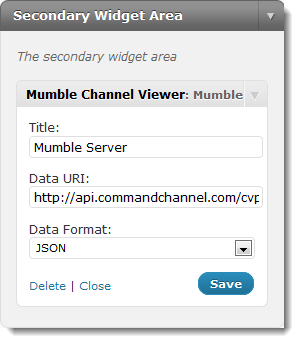
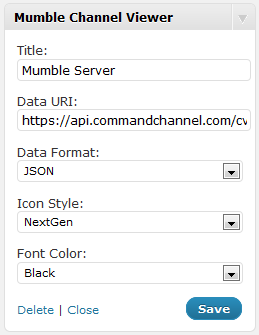
Added font and color options.
git-svn-id: https://plugins.svn.wordpress.org/mumble-channel-viewer/trunk@384664 b8457f37-d9ea-0310-8a92-e5e31aec5664

diff --git a/mumble-channel-viewer.css b/mumble-channel-viewer.css
@@ -1,10 +1,10 @@
 #mumbleViewer { height: 300px; overflow-y: scroll; border: 1px solid #c0c0c0; padding: 3px; }
 #mumbleViewer a, #mumbleViewer a:visited { color: #000; text-decoration: none; }
 #mumbleViewer a:hover { text-decoration: underline; }
-#main .widget-area #mumbleViewer ul, #mumbleViewer ul { list-style-type: none; margin: 0; padding: 0; }
-#main .widget-area #mumbleViewer ul ul, #mumbleViewer ul ul { margin: 0 0 0 7px; padding: 0 0 0 7px; }
+#mumbleViewer ul { list-style-type: none; margin: 0; padding: 0; }
+#mumbleViewer ul ul { margin: 0 0 0 7px; padding: 0 0 0 7px; }
 #mumbleViewer li { padding-top: 3px; }
-#mumbleViewer a, #mumbleViewer span { background: url('images/mumbleIcons.png') no-repeat left -32px; padding-left: 20px; display: block; height: 16px; overflow: hidden; }
+#mumbleViewer a, #mumbleViewer span { background: url('images/mumbleViewerIcons.png') no-repeat left -32px; padding-left: 20px; display: block; height: 16px; overflow: hidden; line-height: 14px; }
 #mumbleViewer span.mumbleChannelViewer-statusIcon { text-indent: -9999px; float: right; }
 #mumbleViewer span.mumbleChannelViewer-user { text-indent: 0; background-position: 0 -16px; float: none; }
 #mumbleViewer span.mumbleChannelViewer-authenticated { background-position: 0 0; }
@@ -14,3 +14,26 @@
 #mumbleViewer span.mumbleChannelViewer-selfMuted { background-position: 0 -80px; }
 #mumbleViewer span.mumbleChannelViewer-muted { background-position: 0 -112px;}
 .mumbleChannelViewer-error { background: #ffc url("images/exclamation.png") no-repeat 4px 5px; color: #000; border: 1px solid #f90; margin: 20px 10px; padding: 5px 5px 5px 25px; }
+
+/* Icon styles */
+#mumbleViewer.mumbleViewerIconsFarCry2 a, #mumbleViewer.mumbleViewerIconsFarCry2 span { background-image: url('images/mumbleViewerIconsFarCry2.png'); }
+#mumbleViewer.mumbleViewerIconsNextGen a, #mumbleViewer.mumbleViewerIconsNextGen span { background-image: url('images/mumbleViewerIconsNextGen.png'); }
+#mumbleViewer.mumbleViewerIconsSCGermania a, #mumbleViewer.mumbleViewerIconsSCGermania span { background-image: url('images/mumbleViewerIconsSCGermania.png'); }
+
+/* Font color styles */
+#mumbleViewer.mumbleViewerColorAqua a, #mumbleViewer.mumbleViewerColorAqua a:visited, #mumbleViewer.mumbleViewerColorAqua span { color: #0ff; }
+#mumbleViewer.mumbleViewerColorBlack a, #mumbleViewer.mumbleViewerColorBlack a:visited, #mumbleViewer.mumbleViewerColorBlack span { color: #000; }
+#mumbleViewer.mumbleViewerColorBlue a, #mumbleViewer.mumbleViewerColorBlue a:visited, #mumbleViewer.mumbleViewerColorBlue span { color: #00f; }
+#mumbleViewer.mumbleViewerColorFuchsia a, #mumbleViewer.mumbleViewerColorFuchsia a:visited, #mumbleViewer.mumbleViewerColorFuchsia span { color: #f0f; }
+#mumbleViewer.mumbleViewerColorGray a, #mumbleViewer.mumbleViewerColorGray a:visited, #mumbleViewer.mumbleViewerColorGray span { color: #808080; }
+#mumbleViewer.mumbleViewerColorGreen a, #mumbleViewer.mumbleViewerColorGreen a:visited, #mumbleViewer.mumbleViewerColorGreen span { color: #008000; }
+#mumbleViewer.mumbleViewerColorLime a, #mumbleViewer.mumbleViewerColorLime a:visited, #mumbleViewer.mumbleViewerColorLime span { color: #0f0; }
+#mumbleViewer.mumbleViewerColorMaroon a, #mumbleViewer.mumbleViewerColorMaroon a:visited, #mumbleViewer.mumbleViewerColorMaroon span { color: #800000; }
+#mumbleViewer.mumbleViewerColorNavy a, #mumbleViewer.mumbleViewerColorNavy a:visited, #mumbleViewer.mumbleViewerColorNavy span { color: #000080; }
+#mumbleViewer.mumbleViewerColorOlive a, #mumbleViewer.mumbleViewerColorOlive a:visited, #mumbleViewer.mumbleViewerColorOlive span { color: #808000; }
+#mumbleViewer.mumbleViewerColorPurple a, #mumbleViewer.mumbleViewerColorPurple a:visited, #mumbleViewer.mumbleViewerColorPurple span { color: #800080; }
+#mumbleViewer.mumbleViewerColorRed a, #mumbleViewer.mumbleViewerColorRed a:visited, #mumbleViewer.mumbleViewerColorRed span { color: #f00; }
+#mumbleViewer.mumbleViewerColorSilver a, #mumbleViewer.mumbleViewerColorSilver a:visited, #mumbleViewer.mumbleViewerColorSilver span { color: #c0c0c0; }
+#mumbleViewer.mumbleViewerColorTeal a, #mumbleViewer.mumbleViewerColorTeal a:visited, #mumbleViewer.mumbleViewerColorTeal span { color: #008080; }
+#mumbleViewer.mumbleViewerColorWhite a, #mumbleViewer.mumbleViewerColorWhite a:visited, #mumbleViewer.mumbleViewerColorWhite span { color: #fff; }
+#mumbleViewer.mumbleViewerColorYellow a, #mumbleViewer.mumbleViewerColorYellow a:visited, #mumbleViewer.mumbleViewerColorYellow span { color: #ff0; }

diff --git a/mumble-channel-viewer.php b/mumble-channel-viewer.php
@@ -3,8 +3,8 @@
 Plugin Name: Mumble Channel Viewer
 Plugin URI: http://CommandChannel.com/Downloads/Wordpress-Mumble-Viewer.aspx
 Description: Shows you who is logged in to your Mumble server and their status.
-Version: 2.0.2
-Author: Mike Johnson
+Version: 2.1.0
+Author: Command Channel
 Author URI: http://CommandChannel.com
 License: GPLv2
 */
@@ -37,6 +37,8 @@ function mumble_channel_viewer_load_widget() {
 	wp_register_style( "mumble-channel-viewer", plugins_url( 'mumble-channel-viewer.css', __FILE__ ) );
 	add_option('mumble_channel_viewer_data_uri');
 	add_option('mumble_channel_viewer_data_format');
+	add_option('mumble_channel_viewer_icon_style');
+	add_option('mumble_channel_viewer_font_color');
 }
 
 /**
@@ -66,6 +68,10 @@ class WP_MumbleChannelViewer extends WP_Widget {
 		$title = apply_filters('widget_title', $instance['title'] );
 		$dataUri = $instance['mumble_channel_viewer_data_uri'];
 		$dataFormat = $instance['mumble_channel_viewer_data_format'];
+		$iconStyle = $instance['mumble_channel_viewer_icon_style'];
+		$fontColor = $instance['mumble_channel_viewer_font_color'];
+		
+		$cssClass = trim( $iconStyle . ' ' . $fontColor );
 		
 		/* Before widget (defined by themes). */
 		echo $before_widget;
@@ -74,7 +80,7 @@ class WP_MumbleChannelViewer extends WP_Widget {
 		if ( $title )
 			echo $before_title . $title . $after_title;
 
-		echo '<div id="mumbleViewer">';
+		echo "<div id='mumbleViewer' class='{$cssClass}'>";
 		if ( $dataUri && $dataFormat ) {
 			require_once( 'class-mumble-channel-viewer.php' );
 			echo MumbleChannelViewer::render( $dataUri, $dataFormat );
@@ -92,13 +98,15 @@ class WP_MumbleChannelViewer extends WP_Widget {
 		$instance['title'] = strip_tags( $new_instance['title'] );
 		$instance['mumble_channel_viewer_data_uri'] = strip_tags( $new_instance['mumble_channel_viewer_data_uri'] );
 		$instance['mumble_channel_viewer_data_format'] = strip_tags( $new_instance['mumble_channel_viewer_data_format'] );
+		$instance['mumble_channel_viewer_icon_style'] = strip_tags( $new_instance['mumble_channel_viewer_icon_style'] );
+		$instance['mumble_channel_viewer_font_color'] = strip_tags( $new_instance['mumble_channel_viewer_font_color'] );
 
 		return $instance;
 	}
 	
 	function form( $instance ) {
 		/* Set up some default widget settings. */
-		$defaults = array( 'title' => __('Mumble Server'), 'mumble_channel_viewer_data_uri' => '', 'mumble_channel_viewer_data_format' => 'json' );
+		$defaults = array( 'title' => __('Mumble Server'), 'mumble_channel_viewer_data_uri' => '', 'mumble_channel_viewer_data_format' => 'json', 'mumble_channel_viewer_icon_style' => 'mumbleViewerIconsDefault', 'mumble_channel_viewer_font_color' => 'mumbleViewerColorBlack' );
 		$instance = wp_parse_args( (array) $instance, $defaults );
 	?>
 		<p>
@@ -116,6 +124,38 @@ class WP_MumbleChannelViewer extends WP_Widget {
 			<select id="<?php echo $this->get_field_id( 'mumble_channel_viewer_data_format' ); ?>" name="<?php echo $this->get_field_name( 'mumble_channel_viewer_data_format' ); ?>" class="widefat">
 				<option value="json"<?php selected( $instance['mumble_channel_viewer_data_format'], 'json' ); ?>>JSON</option>
 				<option value="xml"<?php selected( $instance['mumble_channel_viewer_data_format'], 'xml' ); ?>>XML</option>
+			</select>
+		</p>
+		
+		<p>
+			<label for="<?php echo $this->get_field_id( 'mumble_channel_viewer_icon_style' ); ?>"><?php _e( 'Icon Style' ); ?>:</label>
+			<select id="<?php echo $this->get_field_id( 'mumble_channel_viewer_icon_style' ); ?>" name="<?php echo $this->get_field_name( 'mumble_channel_viewer_icon_style' ); ?>" class="widefat">
+				<option value="mumbleViewerIconsDefault"<?php selected( $instance['mumble_channel_viewer_icon_style'], 'mumbleViewerIconsDefault' ); ?>>Default</option>
+				<option value="mumbleViewerIconsFarCry2"<?php selected( $instance['mumble_channel_viewer_icon_style'], 'mumbleViewerIconsFarCry2' ); ?>>Far Cry 2</option>
+				<option value="mumbleViewerIconsNextGen"<?php selected( $instance['mumble_channel_viewer_icon_style'], 'mumbleViewerIconsNextGen' ); ?>>NextGen</option>
+				<option value="mumbleViewerIconsSCGermania"<?php selected( $instance['mumble_channel_viewer_icon_style'], 'mumbleViewerIconsSCGermania' ); ?>>SC Germania</option>
+			</select>
+		</p>
+		
+		<p>
+			<label for="<?php echo $this->get_field_id( 'mumble_channel_viewer_font_color' ); ?>"><?php _e( 'Font Color' ); ?>:</label>
+			<select id="<?php echo $this->get_field_id( 'mumble_channel_viewer_font_color' ); ?>" name="<?php echo $this->get_field_name( 'mumble_channel_viewer_font_color' ); ?>" class="widefat">
+				<option value="mumbleViewerColorAqua"<?php selected( $instance['mumble_channel_viewer_font_color'], 'mumbleViewerColorAqua' ); ?>>Aqua</option>
+				<option value="mumbleViewerColorBlack"<?php selected( $instance['mumble_channel_viewer_font_color'], 'mumbleViewerColorBlack' ); ?>>Black</option>
+				<option value="mumbleViewerColorBlue"<?php selected( $instance['mumble_channel_viewer_font_color'], 'mumbleViewerColorBlue' ); ?>>Blue</option>
+				<option value="mumbleViewerColorFuchsia"<?php selected( $instance['mumble_channel_viewer_font_color'], 'mumbleViewerColorFuchsia' ); ?>>Fuchsia</option>
+				<option value="mumbleViewerColorGray"<?php selected( $instance['mumble_channel_viewer_font_color'], 'mumbleViewerColorGray' ); ?>>Gray</option>
+				<option value="mumbleViewerColorGreen"<?php selected( $instance['mumble_channel_viewer_font_color'], 'mumbleViewerColorGreen' ); ?>>Green</option>
+				<option value="mumbleViewerColorLime"<?php selected( $instance['mumble_channel_viewer_font_color'], 'mumbleViewerColorLime' ); ?>>Lime</option>
+				<option value="mumbleViewerColorMaroon"<?php selected( $instance['mumble_channel_viewer_font_color'], 'mumbleViewerColorMaroon' ); ?>>Maroon</option>
+				<option value="mumbleViewerColorNavy"<?php selected( $instance['mumble_channel_viewer_font_color'], 'mumbleViewerColorNavy' ); ?>>Navy</option>
+				<option value="mumbleViewerColorOlive"<?php selected( $instance['mumble_channel_viewer_font_color'], 'mumbleViewerColorOlive' ); ?>>Olive</option>
+				<option value="mumbleViewerColorPurple"<?php selected( $instance['mumble_channel_viewer_font_color'], 'mumbleViewerColorPurple' ); ?>>Purple</option>
+				<option value="mumbleViewerColorRed"<?php selected( $instance['mumble_channel_viewer_font_color'], 'mumbleViewerColorRed' ); ?>>Red</option>
+				<option value="mumbleViewerColorSilver"<?php selected( $instance['mumble_channel_viewer_font_color'], 'mumbleViewerColorSilver' ); ?>>Silver</option>
+				<option value="mumbleViewerColorTeal"<?php selected( $instance['mumble_channel_viewer_font_color'], 'mumbleViewerColorTeal' ); ?>>Teal</option>
+				<option value="mumbleViewerColorWhite"<?php selected( $instance['mumble_channel_viewer_font_color'], 'mumbleViewerColorWhite' ); ?>>White</option>
+				<option value="mumbleViewerColorYellow"<?php selected( $instance['mumble_channel_viewer_font_color'], 'mumbleViewerColorYellow' ); ?>>Yellow</option>
 			</select>
 		</p>
 	<?php

diff --git a/uninstall.php b/uninstall.php
@@ -21,5 +21,7 @@ if( !defined( 'ABSPATH') && !defined('WP_UNINSTALL_PLUGIN') )
 wp_deregister_style( "mumble-channel-viewer" );
 delete_option( 'mumble_channel_viewer_data_uri' );
 delete_option( 'mumble_channel_viewer_data_format' );
+delete_option( 'mumble_channel_viewer_icon_style' );
+delete_option( 'mumble_channel_viewer_font_color' );
 
 ?>
